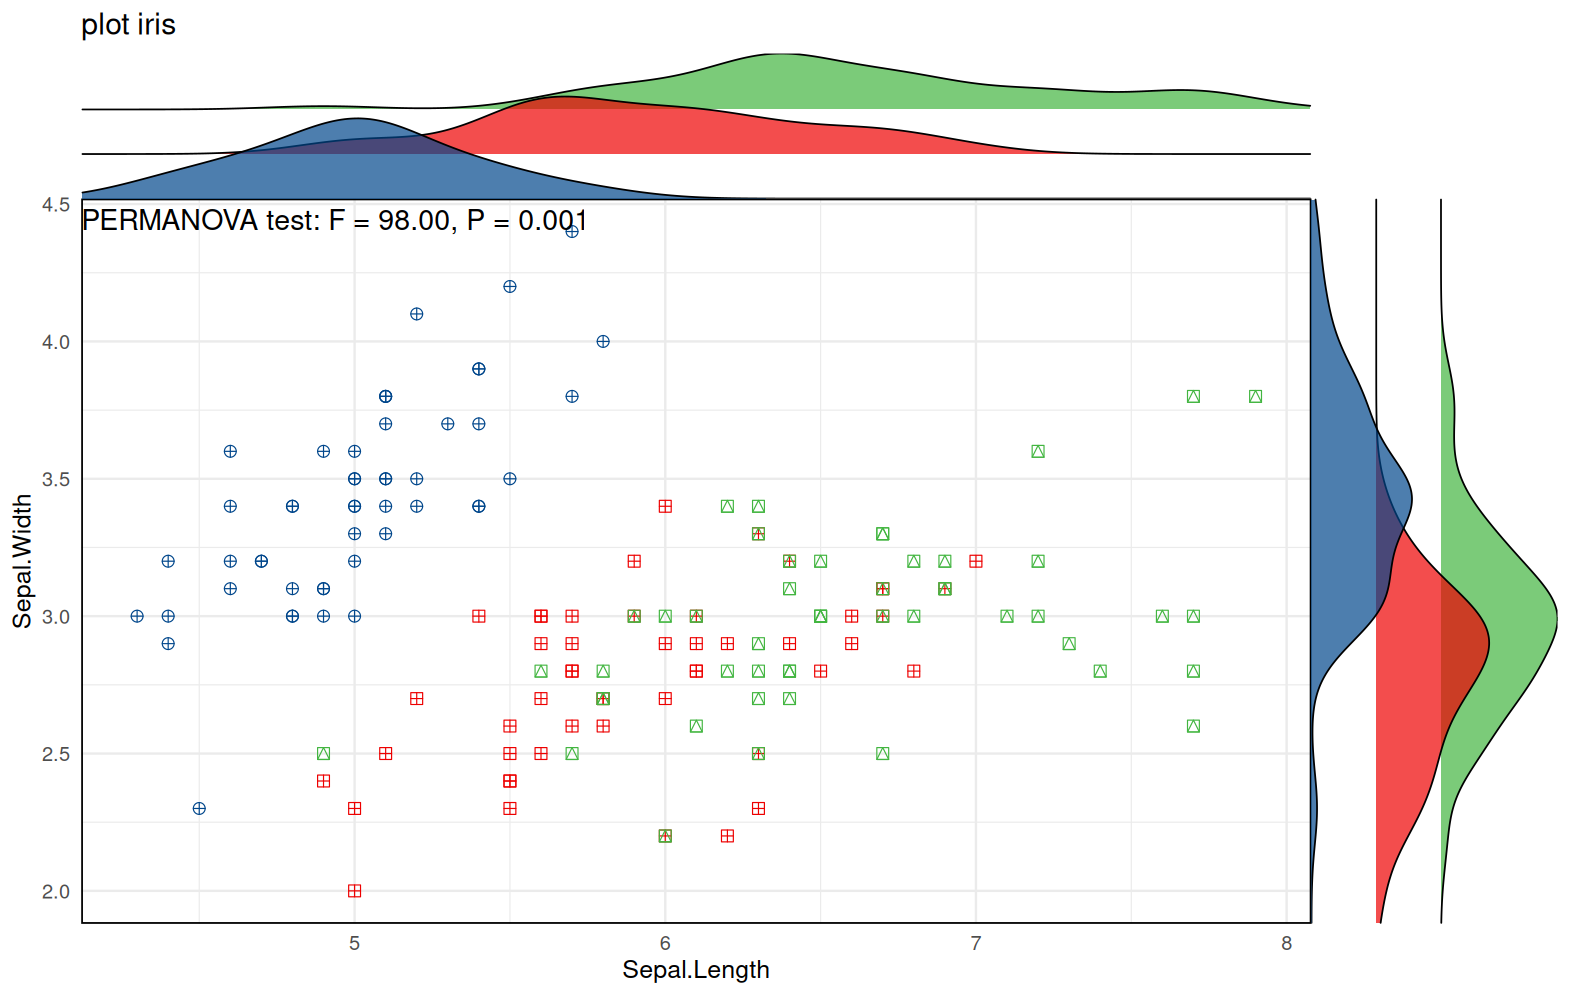
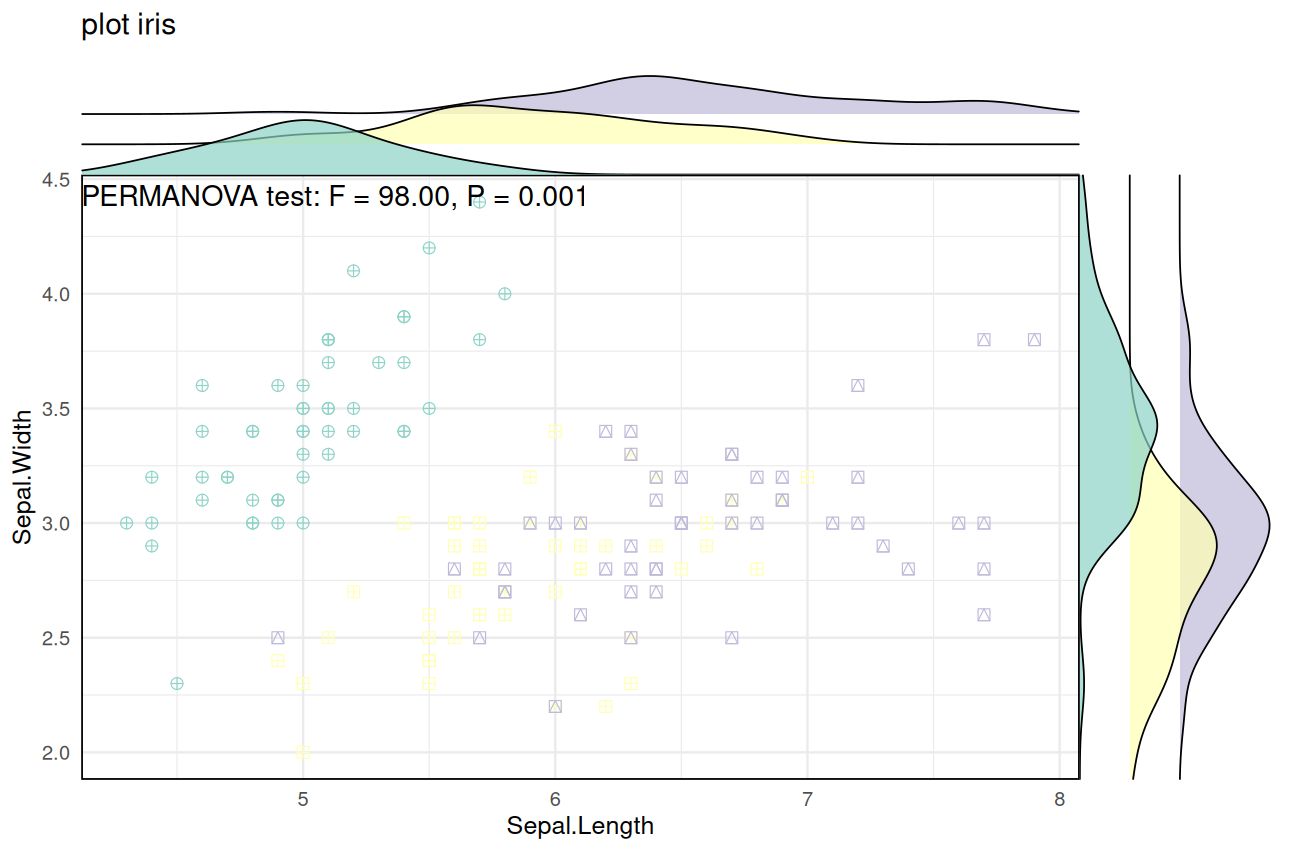
Change color palette

diff --git a/README.md b/README.md
@@ -26,7 +26,7 @@ remotes::install_github("matbou85/ggScatRidges")
 library(ggScatRidges)
 
 ggScatRidges(x = iris$Sepal.Length, y = iris$Sepal.Width, group= iris$Species, 
-             color = "lancet", ridges = TRUE, title = "plot iris", legend.title = "Grouping",
+             color = "Set1", ridges = TRUE, title = "plot iris", legend.title = "Grouping",
              xlab = "Sepal.Length", ylab = "Sepal.Width", base_size = 15, size = 2, 
              draw = TRUE, density_2d = TRUE, legend = TRUE, label = FALSE, text = NULL) 
 ```
@@ -37,7 +37,7 @@ ggScatRidges(x = iris$Sepal.Length, y = iris$Sepal.Width, group= iris$Species,
 library(ggScatRidges)
 
 ggScatRidges(x = iris$Sepal.Length, y = iris$Sepal.Width, group= iris$Species, 
-             color = "lancet", ridges = TRUE, title = "plot iris",
+             color = "Set2", ridges = TRUE, title = "plot iris",
              xlab = "Sepal.Length", ylab = "Sepal.Width", base_size = 15, size = 3, draw = TRUE,
              density_2d = FALSE, legend = FALSE, label = FALSE, text = NULL, pch = c(10,12,14)) 
 ```
@@ -51,7 +51,7 @@ ggScatRidges(x = iris$Sepal.Length, y = iris$Sepal.Width, group= iris$Species,
 library(ggScatRidges)
 
 ggScatRidges(x = iris$Sepal.Length, y = iris$Sepal.Width, group= iris$Species, 
-             color = "lancet", ridges = TRUE, title = "plot iris",
+             color = "Set3", ridges = TRUE, title = "plot iris",
              xlab = "Sepal.Length", ylab = "Sepal.Width", base_size = 15, size = 3, draw = TRUE,
              density_2d = FALSE, legend = FALSE, label = FALSE, text = NULL, pch = c(10,12,14),
              stats = TRUE, stats_method = "eu", anno_size = 6, anno_pos = "Up") 
@@ -74,7 +74,7 @@ xlab <- paste0("PC1: ", round(eig.val[1,3], digits = 1), "% variance")
 ylab <- paste0("PC2: ", round(eig.val[2,3] - eig.val[1,3], digits = 1), "% variance")
   
 ggScatRidges(x = PC1, y = PC2, group= iris$Species, 
-             color = "lancet", ridges = TRUE, title = "PCA iris",
+             color = "Pastel1", ridges = TRUE, title = "PCA iris",
              xlab = xlab, ylab = ylab, size = 2, draw = TRUE,
              density_2d = TRUE, legend = TRUE, label = FALSE, text = NULL)
 
@@ -93,7 +93,7 @@ iris2 <- iris2 %>% group_by(Species) %>% slice(1:10)
 iris2$name <- c(1:30) ## The fourth column is used for naming.
 
 ggScatRidges(x = iris2, 
-             color = "lancet", ridges = TRUE, title = "plot iris",
+             color = "Pastel2", ridges = TRUE, title = "plot iris",
              xlab = "Sepal.Length", ylab = "Sepal.width", size = 2, draw = TRUE,
              density_2d = FALSE, legend = TRUE, label = TRUE)
 
